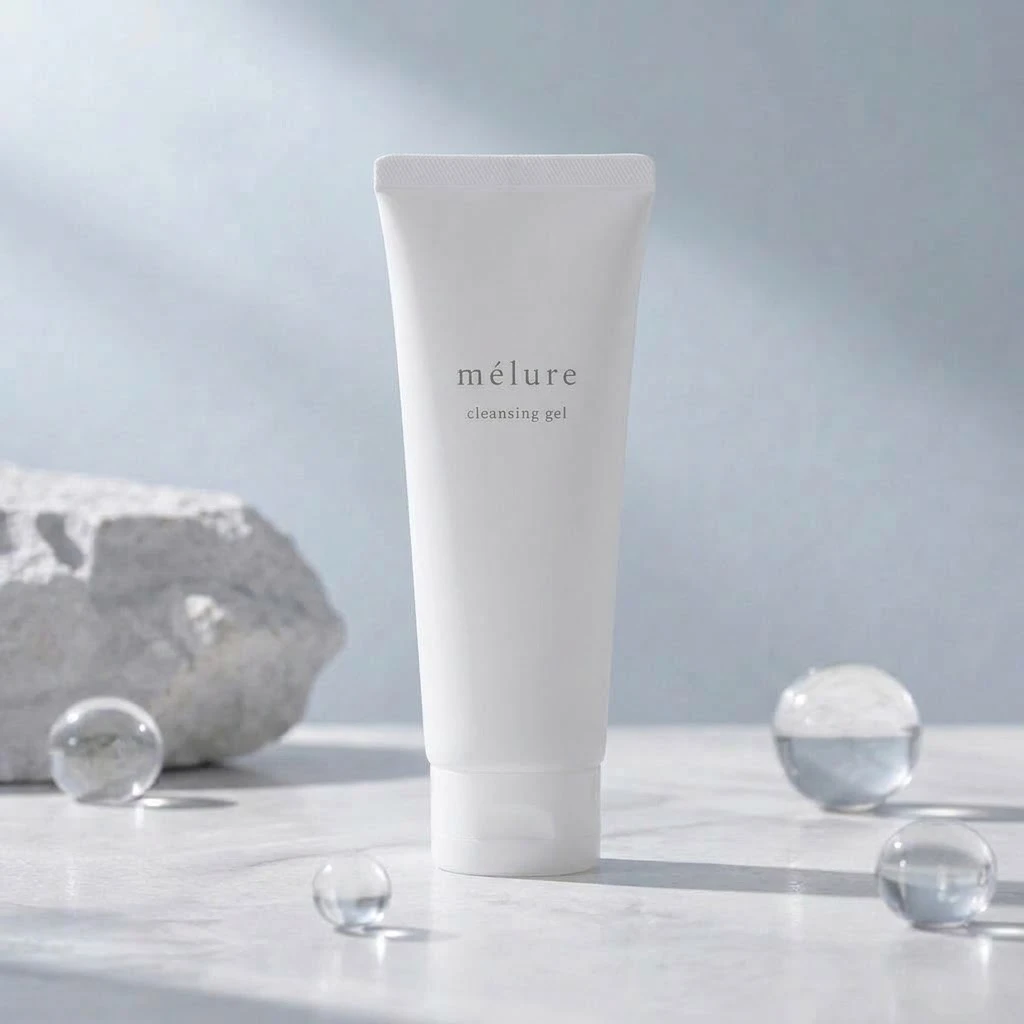
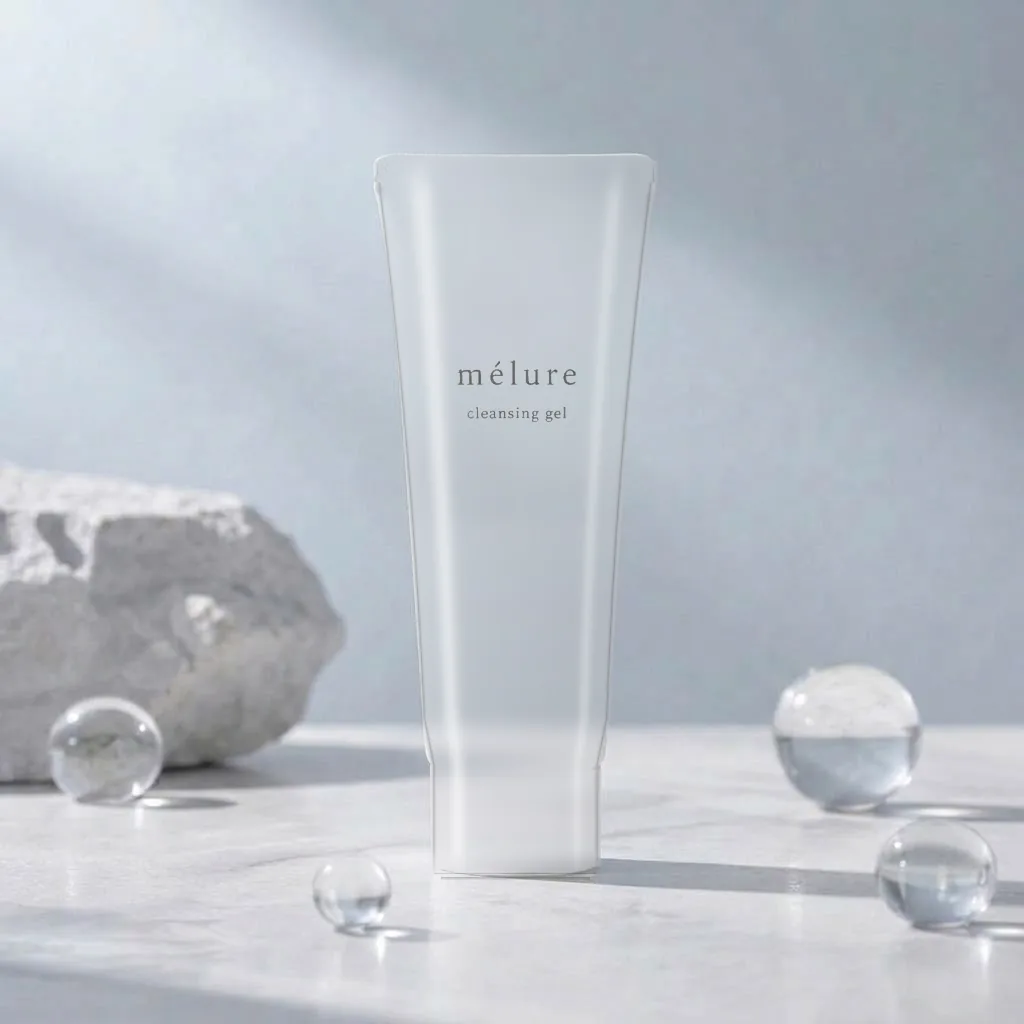
洗顔ジェルの画像を、すりガラスのような半透明のチューブに描き直す

Changed region(s): [[0.375, 0.1562, 0.625, 0.875], [0.4688, 0.3438, 0.5, 0.375]]

diff --git a/b/index.html b/b/index.html
@@ -168,7 +168,7 @@ footer{padding-bottom:96px}
     <div class="wrap"><h2 class="sec"><span class="en">how to use</span>使う順に、4ステップ。</h2></div>
     <article class="step"><div class="wrap in">
       <div><p class="num">01</p><p class="verb">落とす</p></div>
-      <figure><img src="../images/gel.webp?v=2" alt="cleansing gel の半透明のチューブ" loading="lazy"></figure>
+      <figure><img src="../images/gel.webp?v=3" alt="cleansing gel の半透明のチューブ" loading="lazy"></figure>
       <div>
         <h3>cleansing gel</h3><p class="jp">洗顔ジェル</p>
         <p class="lead">今日を、おろす。</p>

diff --git a/a/index.html b/a/index.html
@@ -204,7 +204,7 @@ footer .logo{display:block;color:var(--ink);margin-bottom:12px}
     </header>
 
     <article class="item">
-      <figure><img src="../images/gel.webp?v=2" alt="cleansing gel の白いチューブ。石とガラス玉のそばに立っている" loading="lazy"></figure>
+      <figure><img src="../images/gel.webp?v=3" alt="cleansing gel のすりガラスのような半透明のチューブ。石とガラス玉のそばに立っている" loading="lazy"></figure>
       <div class="body">
         <p class="no">i.</p>
         <h3>cleansing gel</h3>
